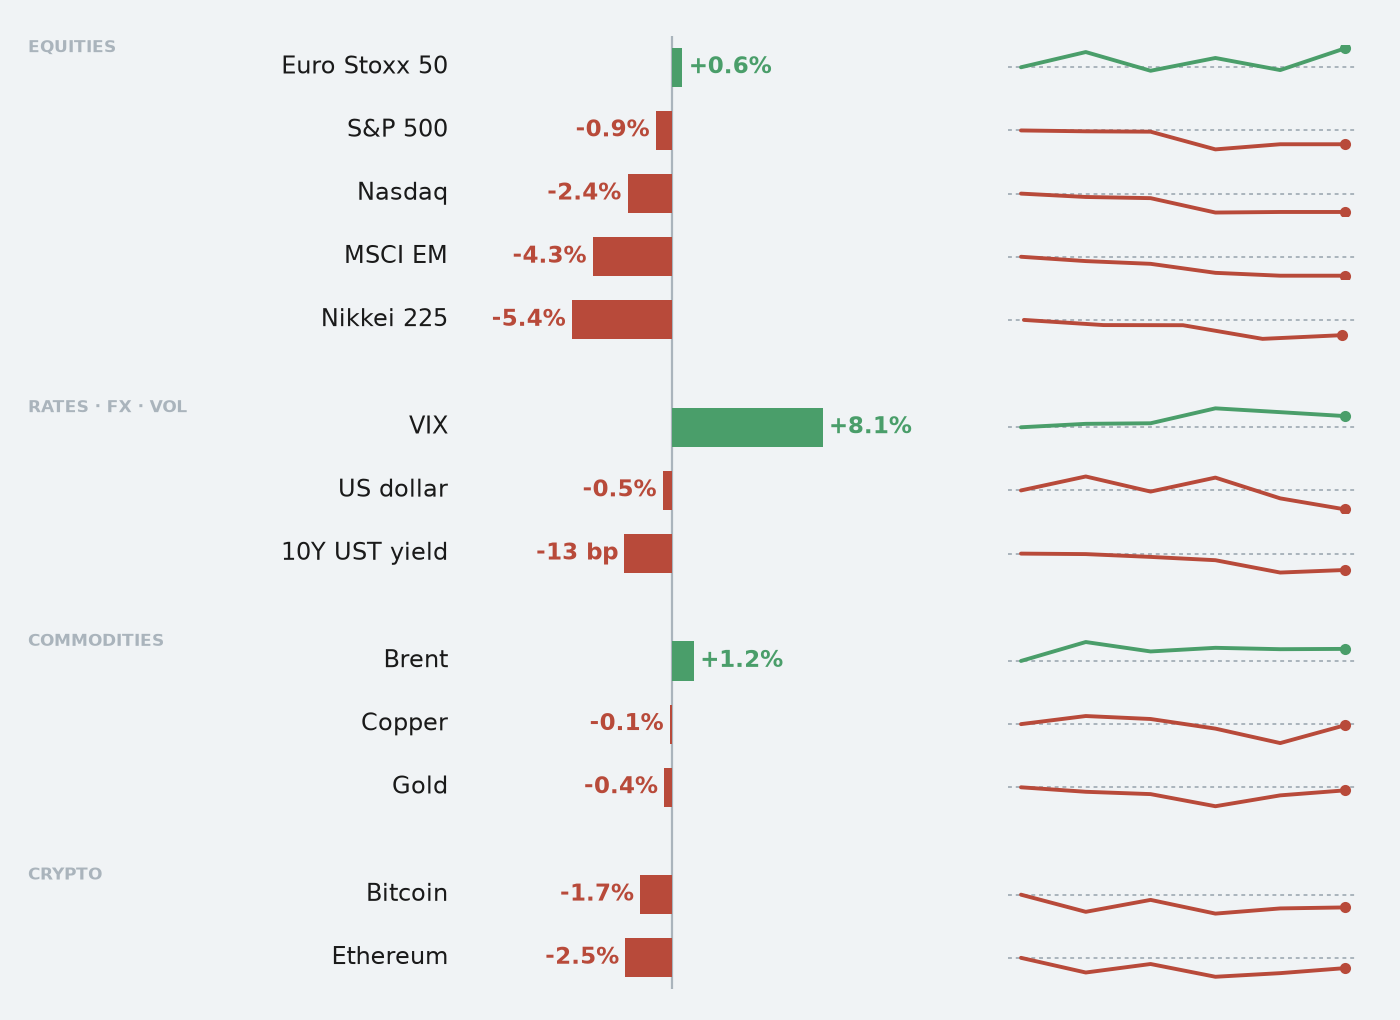
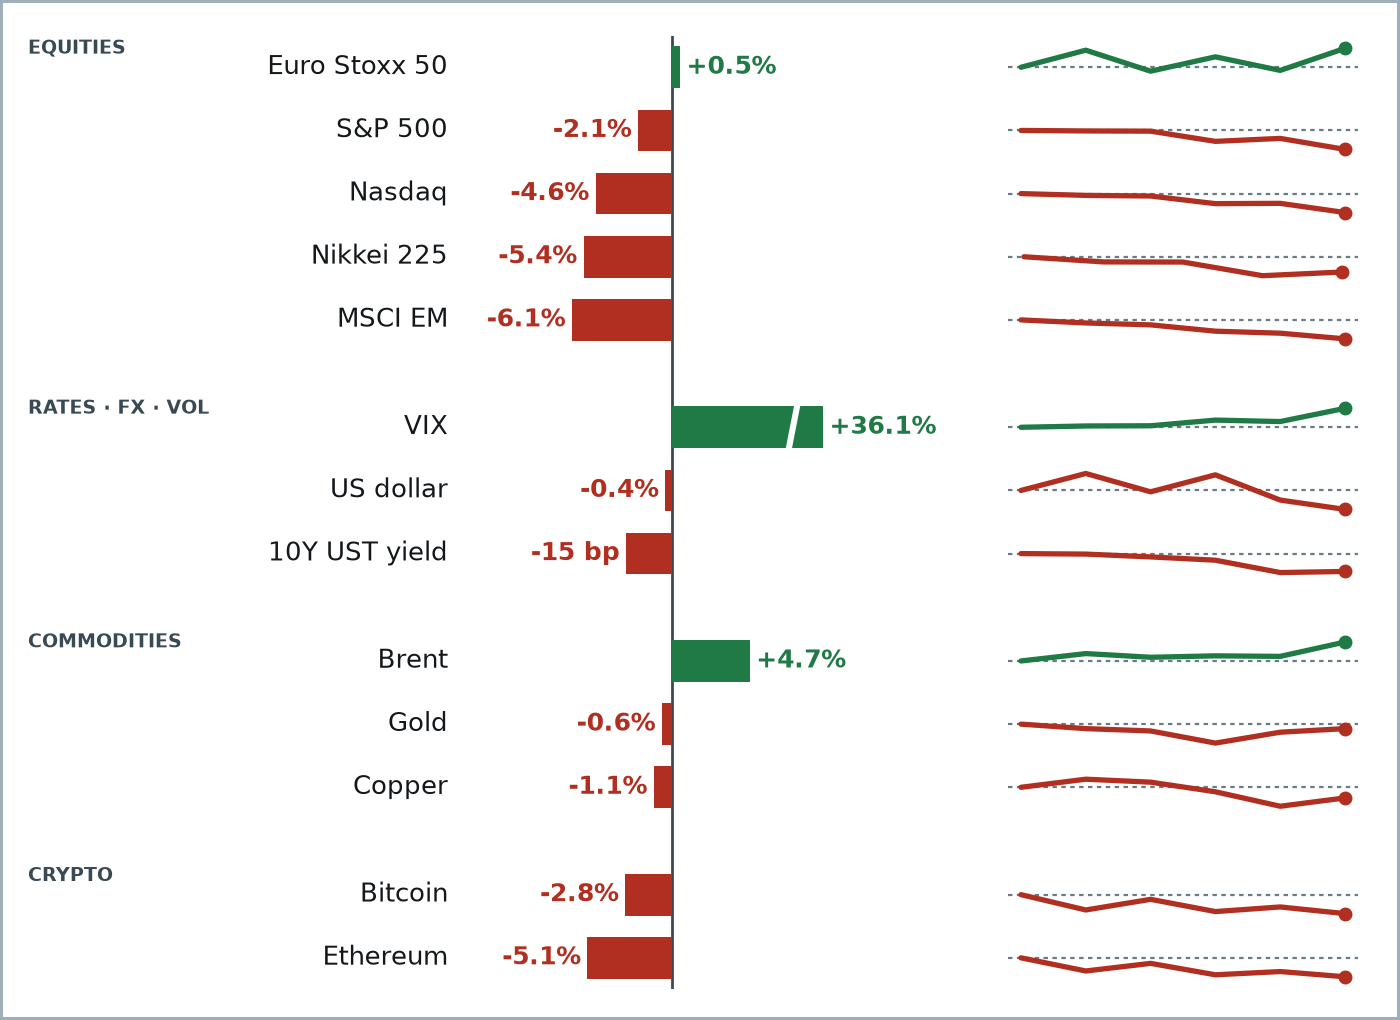
Issue: 2026-10-16

diff --git a/docs/2026-10-16.html b/docs/2026-10-16.html
@@ -212,7 +212,7 @@
         <button class="lang-btn active" data-lang="es" onclick="setLang('es')">ES</button>
         <button class="lang-btn"        data-lang="en" onclick="setLang('en')">EN</button>
       </div>
-      <span>NO. 58</span>
+      <span>NO. 57</span>
     </div>
   </div>
 
@@ -242,75 +242,11 @@
   </div>
 
   
-  <div class="mkt-strip">
-    <div class="mkt-tab-nav"><button class="mkt-tab-btn" data-group="eq" onclick="setMktTab('eq')">Global Equities</button><button class="mkt-tab-btn" data-group="co" onclick="setMktTab('co')">Commodities</button><button class="mkt-tab-btn" data-group="cr" onclick="setMktTab('cr')">Crypto</button></div>
-    <div class="mkt-panel" id="mkt-eq">
-        <div class="tick-item">
-          <span class="tick-label">S&P 500</span>
-          <span class="tick-val">7,744</span>
-          <span class="tick-down">▼ 0.8%</span>
-        </div>
-        <div class="tick-item">
-          <span class="tick-label">Nasdaq</span>
-          <span class="tick-val">26,713</span>
-          <span class="tick-down">▼ 1.8%</span>
-        </div>
-        <div class="tick-item">
-          <span class="tick-label">Euro Stoxx</span>
-          <span class="tick-val">6,205</span>
-          <span class="tick-up">▲ 0.6%</span>
-        </div>
-        <div class="tick-item">
-          <span class="tick-label">Nikkei</span>
-          <span class="tick-val">65,324</span>
-          <span class="tick-up">▲ 1.4%</span>
-        </div>
-    </div>
-    <div class="mkt-panel" id="mkt-co">
-        <div class="tick-item">
-          <span class="tick-label">Brent</span>
-          <span class="tick-val">$106</span>
-          <span class="tick-up">▲ 0.1%</span>
-        </div>
-        <div class="tick-item">
-          <span class="tick-label">Gold</span>
-          <span class="tick-val">$4,198</span>
-          <span class="tick-up">▲ 0.7%</span>
-        </div>
-        <div class="tick-item">
-          <span class="tick-label">Copper</span>
-          <span class="tick-val">$6.63</span>
-          <span class="tick-up">▲ 1.9%</span>
-        </div>
-        <div class="tick-item">
-          <span class="tick-label">Wheat</span>
-          <span class="tick-val">$6.61</span>
-          <span class="tick-down">▼ 1.4%</span>
-        </div>
-    </div>
-    <div class="mkt-panel" id="mkt-cr">
-        <div class="tick-item">
-          <span class="tick-label">Bitcoin</span>
-          <span class="tick-val">$82,232</span>
-          <span class="tick-up">▲ 0.1%</span>
-        </div>
-        <div class="tick-item">
-          <span class="tick-label">Ethereum</span>
-          <span class="tick-val">$2,472</span>
-          <span class="tick-up">▲ 1.3%</span>
-        </div>
-        <div class="tick-item">
-          <span class="tick-label">Solana</span>
-          <span class="tick-val">$106.35</span>
-          <span class="tick-up">▲ 1.0%</span>
-        </div>
-    </div>
-  </div>
 
   <div class="editor-note">
     <div class="lang-es"><p>Estimados humanos, el CPI de septiembre en EE.UU. llegó al 3,7% anual y los mercados pasaron ayer por su peor sesión desde julio — el S&P 500 cae a 7.744 hoy y el bono a 10 años ronda el 5,09%, territorio que ningún banco central quiere ver a doce días de una reunión del FOMC. La Fed de Warsh heredó cinco años de inflación sobre el objetivo y ahora enfrenta el peor combo posible: precios al alza y empleo en enfriamiento. Bienvenidos al viernes.</p></div>
     <div class="lang-en"><p>Dear humans, September CPI in the U.S. came in at 3.7% annualized and markets went through their worst session since July yesterday — the S&P 500 sits at 7,744 today and the 10-year Treasury hovers at 5.09%, territory no central bank wants to see twelve days before an FOMC meeting. Warsh's Fed inherited five years of above-target inflation and now faces the worst possible combination: rising prices and a cooling labor market. Welcome to Friday.</p></div>
-    <div class="editor-sig">&mdash; Vera Tility, Custodian of Forward Guidance and Other Myths</div>
+    <div class="editor-sig">&mdash; </div>
   </div>
 
   
@@ -361,11 +297,11 @@
   <div class="line"></div>
 </div>
 <div class="story">
-  <span class="thread-badge">&#9679; Tasas: Fed</span>
+  <span class="thread-badge" data-es="&#9679; Tasas: Fed" data-en="&#9679; Tasas: Fed">&#9679; Tasas: Fed</span>
   <div class="lead-label">&#9679; LEAD STORY</div>
   <div class="story-meta">
     <span class="story-source">El Financiero</span>
-    <span class="story-tag">Tasas</span>
+    <span class="story-tag" data-es="Tasas" data-en="Rates">Tasas</span>
   </div>
   <div class="lang-es">
     <div class="story-headline story-headline-lead">El CPI de septiembre en EE.UU. llega al 3,7% y duplica la probabilidad de alza de tasas el 28 de octubre</div>
@@ -392,11 +328,11 @@
   <div class="line"></div>
 </div>
 <div class="story">
-  <span class="thread-badge">&#9679; Tasas: Fed</span>
+  <span class="thread-badge" data-es="&#9679; Tasas: Fed" data-en="&#9679; Tasas: Fed">&#9679; Tasas: Fed</span>
   
   <div class="story-meta">
     <span class="story-source">CNA</span>
-    <span class="story-tag">FX</span>
+    <span class="story-tag" data-es="FX" data-en="FX">FX</span>
   </div>
   <div class="lang-es">
     <div class="story-headline">El dólar cede desde máximo de 18 meses pese a datos de inflación fuertes; Fed pide paciencia antes del 28 de octubre</div>
@@ -427,7 +363,7 @@
   
   <div class="story-meta">
     <span class="story-source">CNA</span>
-    <span class="story-tag">Macro</span>
+    <span class="story-tag" data-es="Macro" data-en="Macro">Macro</span>
   </div>
   <div class="lang-es">
     <div class="story-headline">El FMI advierte sobre desaceleración asiática y contagio de rendimientos globales al alza</div>
@@ -458,7 +394,7 @@
   
   <div class="story-meta">
     <span class="story-source">El Mundo</span>
-    <span class="story-tag">Macro</span>
+    <span class="story-tag" data-es="Macro" data-en="Macro">Macro</span>
   </div>
   <div class="lang-es">
     <div class="story-headline">Funcas pronostica inflación del 3,7% en España este año y desaceleración del PIB hasta el 1,7% en 2028</div>
@@ -489,7 +425,7 @@
   
   <div class="story-meta">
     <span class="story-source">Expansion.com</span>
-    <span class="story-tag">Mercados</span>
+    <span class="story-tag" data-es="Mercados" data-en="Markets">Mercados</span>
   </div>
   <div class="lang-es">
     <div class="story-headline">Kraken compra el banco lituano Saldo Bank y obtiene pasaporte europeo para operar en cinco mercados</div>
@@ -520,7 +456,7 @@
   
   <div class="story-meta">
     <span class="story-source">Livemint</span>
-    <span class="story-tag">Mercados</span>
+    <span class="story-tag" data-es="Mercados" data-en="Markets">Mercados</span>
   </div>
   <div class="lang-es">
     <div class="story-headline">El oro se recupera a 4.138 dólares tras tres días de caídas al desplomarse las bolsas y retroceder el dólar</div>
@@ -551,7 +487,7 @@
   
   <div class="story-meta">
     <span class="story-source">Cboe / CNBC</span>
-    <span class="story-tag">Mercados</span>
+    <span class="story-tag" data-es="Mercados" data-en="Markets">Mercados</span>
   </div>
   <div class="lang-es">
     <div class="story-headline">Cboe amplía el horario de negociación de opciones sobre 24 acciones y 5 ETFs a partir del lunes</div>
@@ -940,34 +876,34 @@
        data-en="Key Upcoming Dates">Pr&oacute;ximas Fechas Clave</div>
   
       <div class="cal-row">
-        <span class="cal-date">28 OCT</span>
+        <span class="cal-date" data-es="28 OCT" data-en="OCT 28">28 OCT</span>
         <span class="cal-badge" style="color:#5a8abf; border-color:#5a8abf;">FED</span>
-        <span class="cal-label">FOMC — Decisión Fed</span>
-        <span class="cal-days">12d</span>
+        <span class="cal-label" data-es="FOMC — Decisión Fed" data-en="FOMC — Fed decision">FOMC — Decisión Fed</span>
+        <span class="cal-days" data-es="12d" data-en="12d">12d</span>
       </div>
       <div class="cal-row">
-        <span class="cal-date">05 NOV</span>
+        <span class="cal-date" data-es="05 NOV" data-en="NOV 05">05 NOV</span>
         <span class="cal-badge" style="color:#4a9e6a; border-color:#4a9e6a;">BANXICO</span>
-        <span class="cal-label">Banxico — Decisión de tasa</span>
-        <span class="cal-days">20d</span>
+        <span class="cal-label" data-es="Banxico — Decisión de tasa" data-en="Banxico — Rate decision">Banxico — Decisión de tasa</span>
+        <span class="cal-days" data-es="20d" data-en="20d">20d</span>
       </div>
       <div class="cal-row">
-        <span class="cal-date">10 NOV</span>
+        <span class="cal-date" data-es="10 NOV" data-en="NOV 10">10 NOV</span>
         <span class="cal-badge" style="color:#7a9aaa; border-color:#7a9aaa;">BLS</span>
-        <span class="cal-label">BLS — CPI EE.UU. (oct)</span>
-        <span class="cal-days">25d</span>
+        <span class="cal-label" data-es="BLS — CPI EE.UU. (oct)" data-en="BLS — U.S. CPI (Oct)">BLS — CPI EE.UU. (oct)</span>
+        <span class="cal-days" data-es="25d" data-en="25d">25d</span>
       </div>
       <div class="cal-row">
-        <span class="cal-date">09 DIC</span>
+        <span class="cal-date" data-es="09 DIC" data-en="DEC 09">09 DIC</span>
         <span class="cal-badge" style="color:#5a8abf; border-color:#5a8abf;">FED</span>
-        <span class="cal-label">FOMC — Decisión Fed</span>
-        <span class="cal-days">54d</span>
+        <span class="cal-label" data-es="FOMC — Decisión Fed" data-en="FOMC — Fed decision">FOMC — Decisión Fed</span>
+        <span class="cal-days" data-es="54d" data-en="54d">54d</span>
       </div>
       <div class="cal-row">
-        <span class="cal-date">10 DIC</span>
+        <span class="cal-date" data-es="10 DIC" data-en="DEC 10">10 DIC</span>
         <span class="cal-badge" style="color:#7a9aaa; border-color:#7a9aaa;">BLS</span>
-        <span class="cal-label">BLS — CPI EE.UU. (nov)</span>
-        <span class="cal-days">55d</span>
+        <span class="cal-label" data-es="BLS — CPI EE.UU. (nov)" data-en="BLS — U.S. CPI (Nov)">BLS — CPI EE.UU. (nov)</span>
+        <span class="cal-days" data-es="55d" data-en="55d">55d</span>
       </div>
 </div>
 
@@ -1014,12 +950,12 @@
   <div class="timeline">
       <div class="tl-row">
         <div class="tl-left">
-          <div class="tl-day">Lun</div>
+          <div class="tl-day" data-es="Lun" data-en="Mon">Lun</div>
           <div class="tl-dot "></div>
           <div class="tl-line"></div>
         </div>
         <div class="tl-content">
-          <span class="tl-tag">Comercio</span>
+          <span class="tl-tag" data-es="Comercio" data-en="Trade">Comercio</span>
           <div class="lang-es">
             <div class="tl-headline">Trump acuerda suministro de diésel ruso, contradiciendo la ley de sanciones que él mismo promulgó hace tres semanas</div>
             <div class="tl-body">Trump anunció el viernes un acuerdo para que Rusia suministre diésel al mercado global, tres semanas después de firmar la Ley Graham de Sanciones a Rusia e Irán...</div>
@@ -1032,12 +968,12 @@
       </div>
       <div class="tl-row">
         <div class="tl-left">
-          <div class="tl-day">Mar</div>
+          <div class="tl-day" data-es="Mar" data-en="Tue">Mar</div>
           <div class="tl-dot "></div>
           <div class="tl-line"></div>
         </div>
         <div class="tl-content">
-          <span class="tl-tag">Macro</span>
+          <span class="tl-tag" data-es="Macro" data-en="Macro">Macro</span>
           <div class="lang-es">
             <div class="tl-headline">El déficit fiscal de EE.UU. cierra en casi 2 billones de dólares, récord histórico en ciclo de expansión</div>
             <div class="tl-body">El año fiscal estadounidense cerró el 30 de septiembre con un déficit de 1.99 billones de dólares —6.2% del PIB—, con el pago de intereses de deuda alcanzando u...</div>
@@ -1050,12 +986,12 @@
       </div>
       <div class="tl-row">
         <div class="tl-left">
-          <div class="tl-day">Mié</div>
+          <div class="tl-day" data-es="Mié" data-en="Wed">Mié</div>
           <div class="tl-dot "></div>
           <div class="tl-line"></div>
         </div>
         <div class="tl-content">
-          <span class="tl-tag">Macro</span>
+          <span class="tl-tag" data-es="Macro" data-en="Macro">Macro</span>
           <div class="lang-es">
             <div class="tl-headline">FMI advierte sobre colapso 'desordenado' de bonos soberanos ante deuda récord e inflación persistente</div>
             <div class="tl-body">El Fondo Monetario Internacional alertó en Bangkok que los rendimientos de bonos gubernamentales podrían dispararse de forma desordenada, citando deuda pública ...</div>
@@ -1068,12 +1004,12 @@
       </div>
       <div class="tl-row">
         <div class="tl-left">
-          <div class="tl-day">Jue</div>
+          <div class="tl-day" data-es="Jue" data-en="Thu">Jue</div>
           <div class="tl-dot active"></div>
           <div class="tl-line"></div>
         </div>
         <div class="tl-content">
-          <span class="tl-tag">Tasas</span>
+          <span class="tl-tag" data-es="Tasas" data-en="Rates">Tasas</span>
           <div class="lang-es">
             <div class="tl-headline">IPC de septiembre sube al 3,7%: la inflación energética presiona a la Fed a seguir subiendo tipos</div>
             <div class="tl-body">El Índice de Precios al Consumidor de EE.UU. avanzó un 3,7% interanual en septiembre, por encima del 3,4% de agosto, impulsado por un encarecimiento de la energ...</div>
@@ -1086,12 +1022,12 @@
       </div>
       <div class="tl-row">
         <div class="tl-left">
-          <div class="tl-day">Vie</div>
+          <div class="tl-day" data-es="Vie" data-en="Fri">Vie</div>
           <div class="tl-dot active"></div>
           <div class="tl-line"></div>
         </div>
         <div class="tl-content">
-          <span class="tl-tag">Tasas</span>
+          <span class="tl-tag" data-es="Tasas" data-en="Rates">Tasas</span>
           <div class="lang-es">
             <div class="tl-headline">El CPI de septiembre en EE.UU. llega al 3,7% y duplica la probabilidad de alza de tasas el 28 de octubre</div>
             <div class="tl-body">El índice de precios al consumidor de EE.UU. subió 3,7% anual en septiembre — por encima del 3,6% esperado —, impulsado por la gasolina, que acumula un alza de ...</div>
@@ -1124,7 +1060,7 @@
   <table class="sc-table" style="margin-top:14px;">
     <tbody>
       <tr>
-        <td class="sc-day">Lun</td>
+        <td class="sc-day" data-es="Lun" data-en="Mon">Lun</td>
         <td class="sc-track-cell">
           <div class="sc-track">
             <div class="sc-bar" style="width:36%; background:#e8a030;">
@@ -1132,10 +1068,10 @@
             </div>
           </div>
         </td>
-        <td class="sc-label" style="color:#e8a030;">Cauteloso</td>
+        <td class="sc-label" style="color:#e8a030;" data-es="Cauteloso" data-en="Cautious">Cauteloso</td>
       </tr>
       <tr>
-        <td class="sc-day">Mar</td>
+        <td class="sc-day" data-es="Mar" data-en="Tue">Mar</td>
         <td class="sc-track-cell">
           <div class="sc-track">
             <div class="sc-bar" style="width:41%; background:#e8a030;">
@@ -1143,10 +1079,10 @@
             </div>
           </div>
         </td>
-        <td class="sc-label" style="color:#e8a030;">Cauteloso</td>
+        <td class="sc-label" style="color:#e8a030;" data-es="Cauteloso" data-en="Cautious">Cauteloso</td>
       </tr>
       <tr>
-        <td class="sc-day">Mié</td>
+        <td class="sc-day" data-es="Mié" data-en="Wed">Mié</td>
         <td class="sc-track-cell">
           <div class="sc-track">
             <div class="sc-bar" style="width:41%; background:#e8a030;">
@@ -1154,10 +1090,10 @@
             </div>
           </div>
         </td>
-        <td class="sc-label" style="color:#e8a030;">Cauteloso</td>
+        <td class="sc-label" style="color:#e8a030;" data-es="Cauteloso" data-en="Cautious">Cauteloso</td>
       </tr>
       <tr>
-        <td class="sc-day">Jue</td>
+        <td class="sc-day" data-es="Jue" data-en="Thu">Jue</td>
         <td class="sc-track-cell">
           <div class="sc-track">
             <div class="sc-bar" style="width:25%; background:#d4695a;">
@@ -1165,10 +1101,10 @@
             </div>
           </div>
         </td>
-        <td class="sc-label" style="color:#d4695a;">Aversión</td>
+        <td class="sc-label" style="color:#d4695a;" data-es="Aversión" data-en="Risk-Off">Aversión</td>
       </tr>
       <tr>
-        <td class="sc-day">Vie</td>
+        <td class="sc-day" data-es="Vie" data-en="Fri">Vie</td>
         <td class="sc-track-cell">
           <div class="sc-track">
             <div class="sc-bar" style="width:25%; background:#d4695a;">
@@ -1176,7 +1112,7 @@
             </div>
           </div>
         </td>
-        <td class="sc-label" style="color:#d4695a;">Aversión</td>
+        <td class="sc-label" style="color:#d4695a;" data-es="Aversión" data-en="Risk-Off">Aversión</td>
       </tr>
     </tbody>
   </table>
@@ -1202,8 +1138,8 @@
   <div class="lang-en" style="font-size:12px; color:#8a9aa4; margin-bottom:12px; line-height:1.5;">Before the markets open · Thursday's close vs. last Friday's close, plus overnight moves</div>
   <div class="lang-es"><img src="https://newsletter.mustardhq.dev/markets-2026-W42.png" style="width:100%; max-width:720px; display:block; border:1px solid #cdd4d9;" alt="Gráfica de la semana en mercados: cambio semanal por activo"/></div>
   <div class="lang-en"><img src="https://newsletter.mustardhq.dev/markets-2026-W42.png" style="width:100%; max-width:720px; display:block; border:1px solid #cdd4d9;" alt="Chart of the week in markets: weekly change by asset"/></div>
-  <div class="lang-es" style="margin-top:10px; font-size:13px; color:#1a1a1a;">Mejor: Brent +1.2% · Peor: Nikkei 225 −5.4%</div>
-  <div class="lang-en" style="margin-top:10px; font-size:13px; color:#1a1a1a;">Best: Brent +1.2% · Worst: Nikkei 225 −5.4%</div>
+  <div class="lang-es" style="margin-top:10px; font-size:13px; color:#1a1a1a;">Mejor: Brent +4.7% · Peor: MSCI EM −6.1%</div>
+  <div class="lang-en" style="margin-top:10px; font-size:13px; color:#1a1a1a;">Best: Brent +4.7% · Worst: MSCI EM −6.1%</div>
 </div>
 
   
@@ -1228,8 +1164,8 @@
 
   <div class="footer">
     <span class="footer-name">The Opening Bell</span>
-    <span class="footer-by lang-es">por Vera Tility, Custodian of Forward Guidance and Other Myths</span>
-    <span class="footer-by lang-en">by Vera Tility, Custodian of Forward Guidance and Other Myths</span>
+    <span class="footer-by lang-es">por </span>
+    <span class="footer-by lang-en">by </span>
   </div>
 
 </div>
